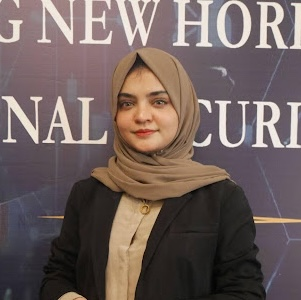
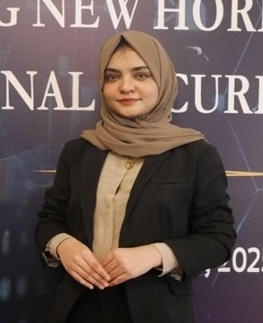
edited-picture&title
updated image for Muhammad Asif in teams.

updated title Publications to Think Points on HomePage scroller.

diff --git a/components/AnnouncementsParallax.tsx b/components/AnnouncementsParallax.tsx
@@ -260,7 +260,7 @@ export default function AnnouncementsParallax() {
         {/* Publications */}
         <aside className="md:pl-8">
           <h3 className="text-3xl font-semibold tracking-tight">
-            Publications
+            Think Points
           </h3>
 
           <div className="p-5 card bg-white/90 ring-1 ring-neutral-200/60 mt-12">
